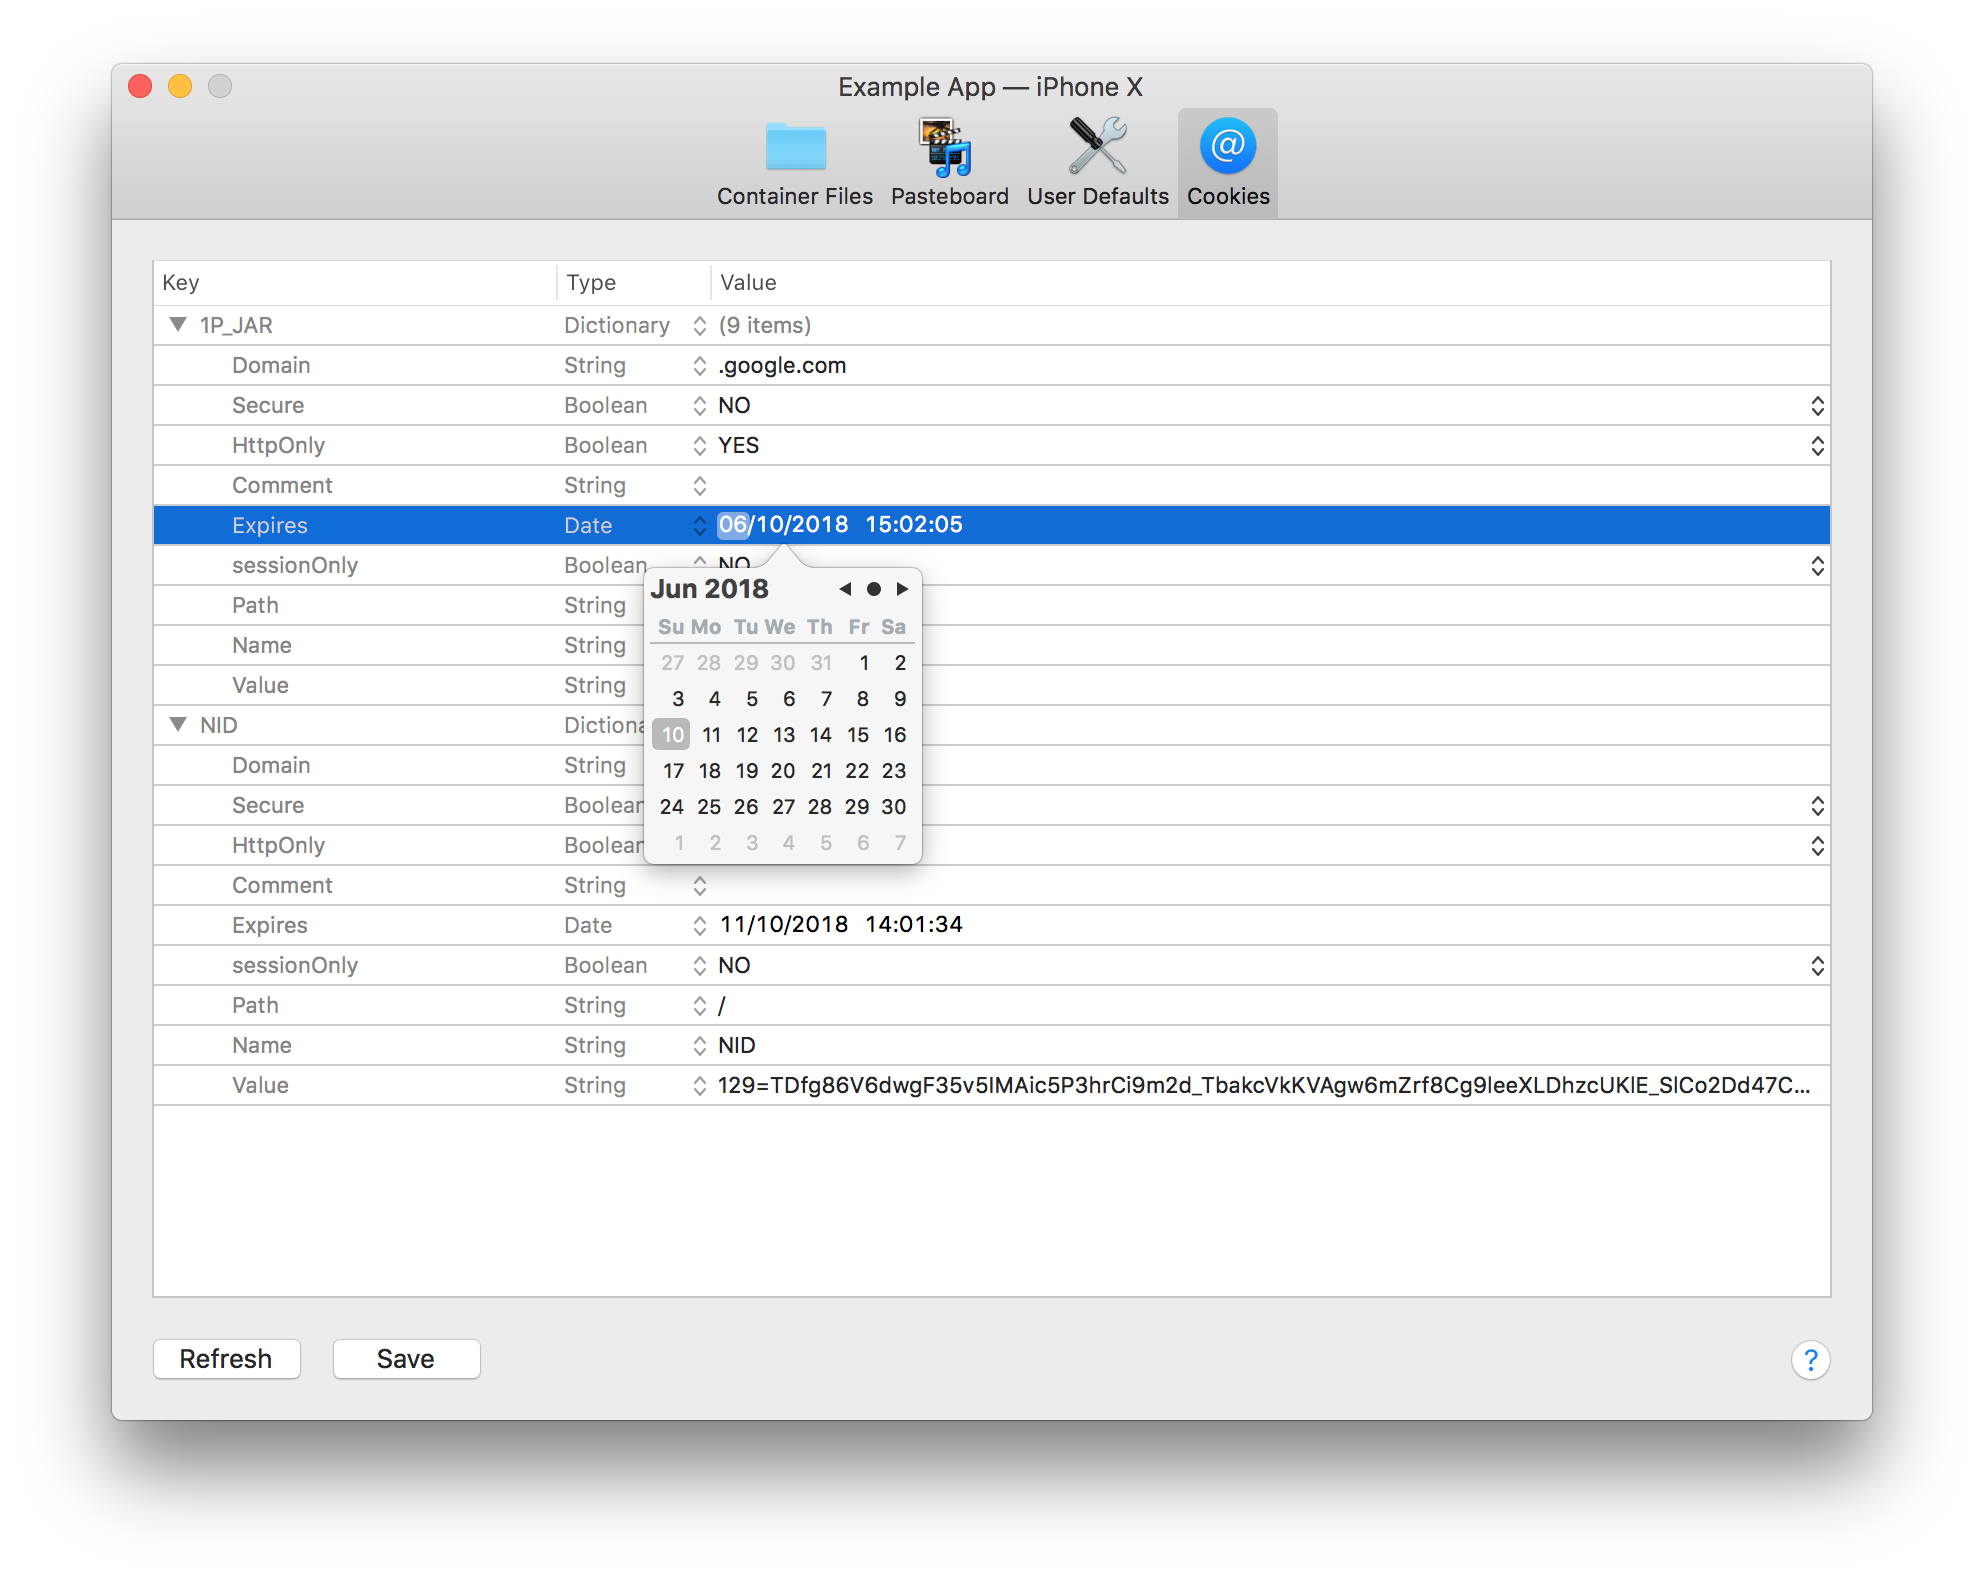
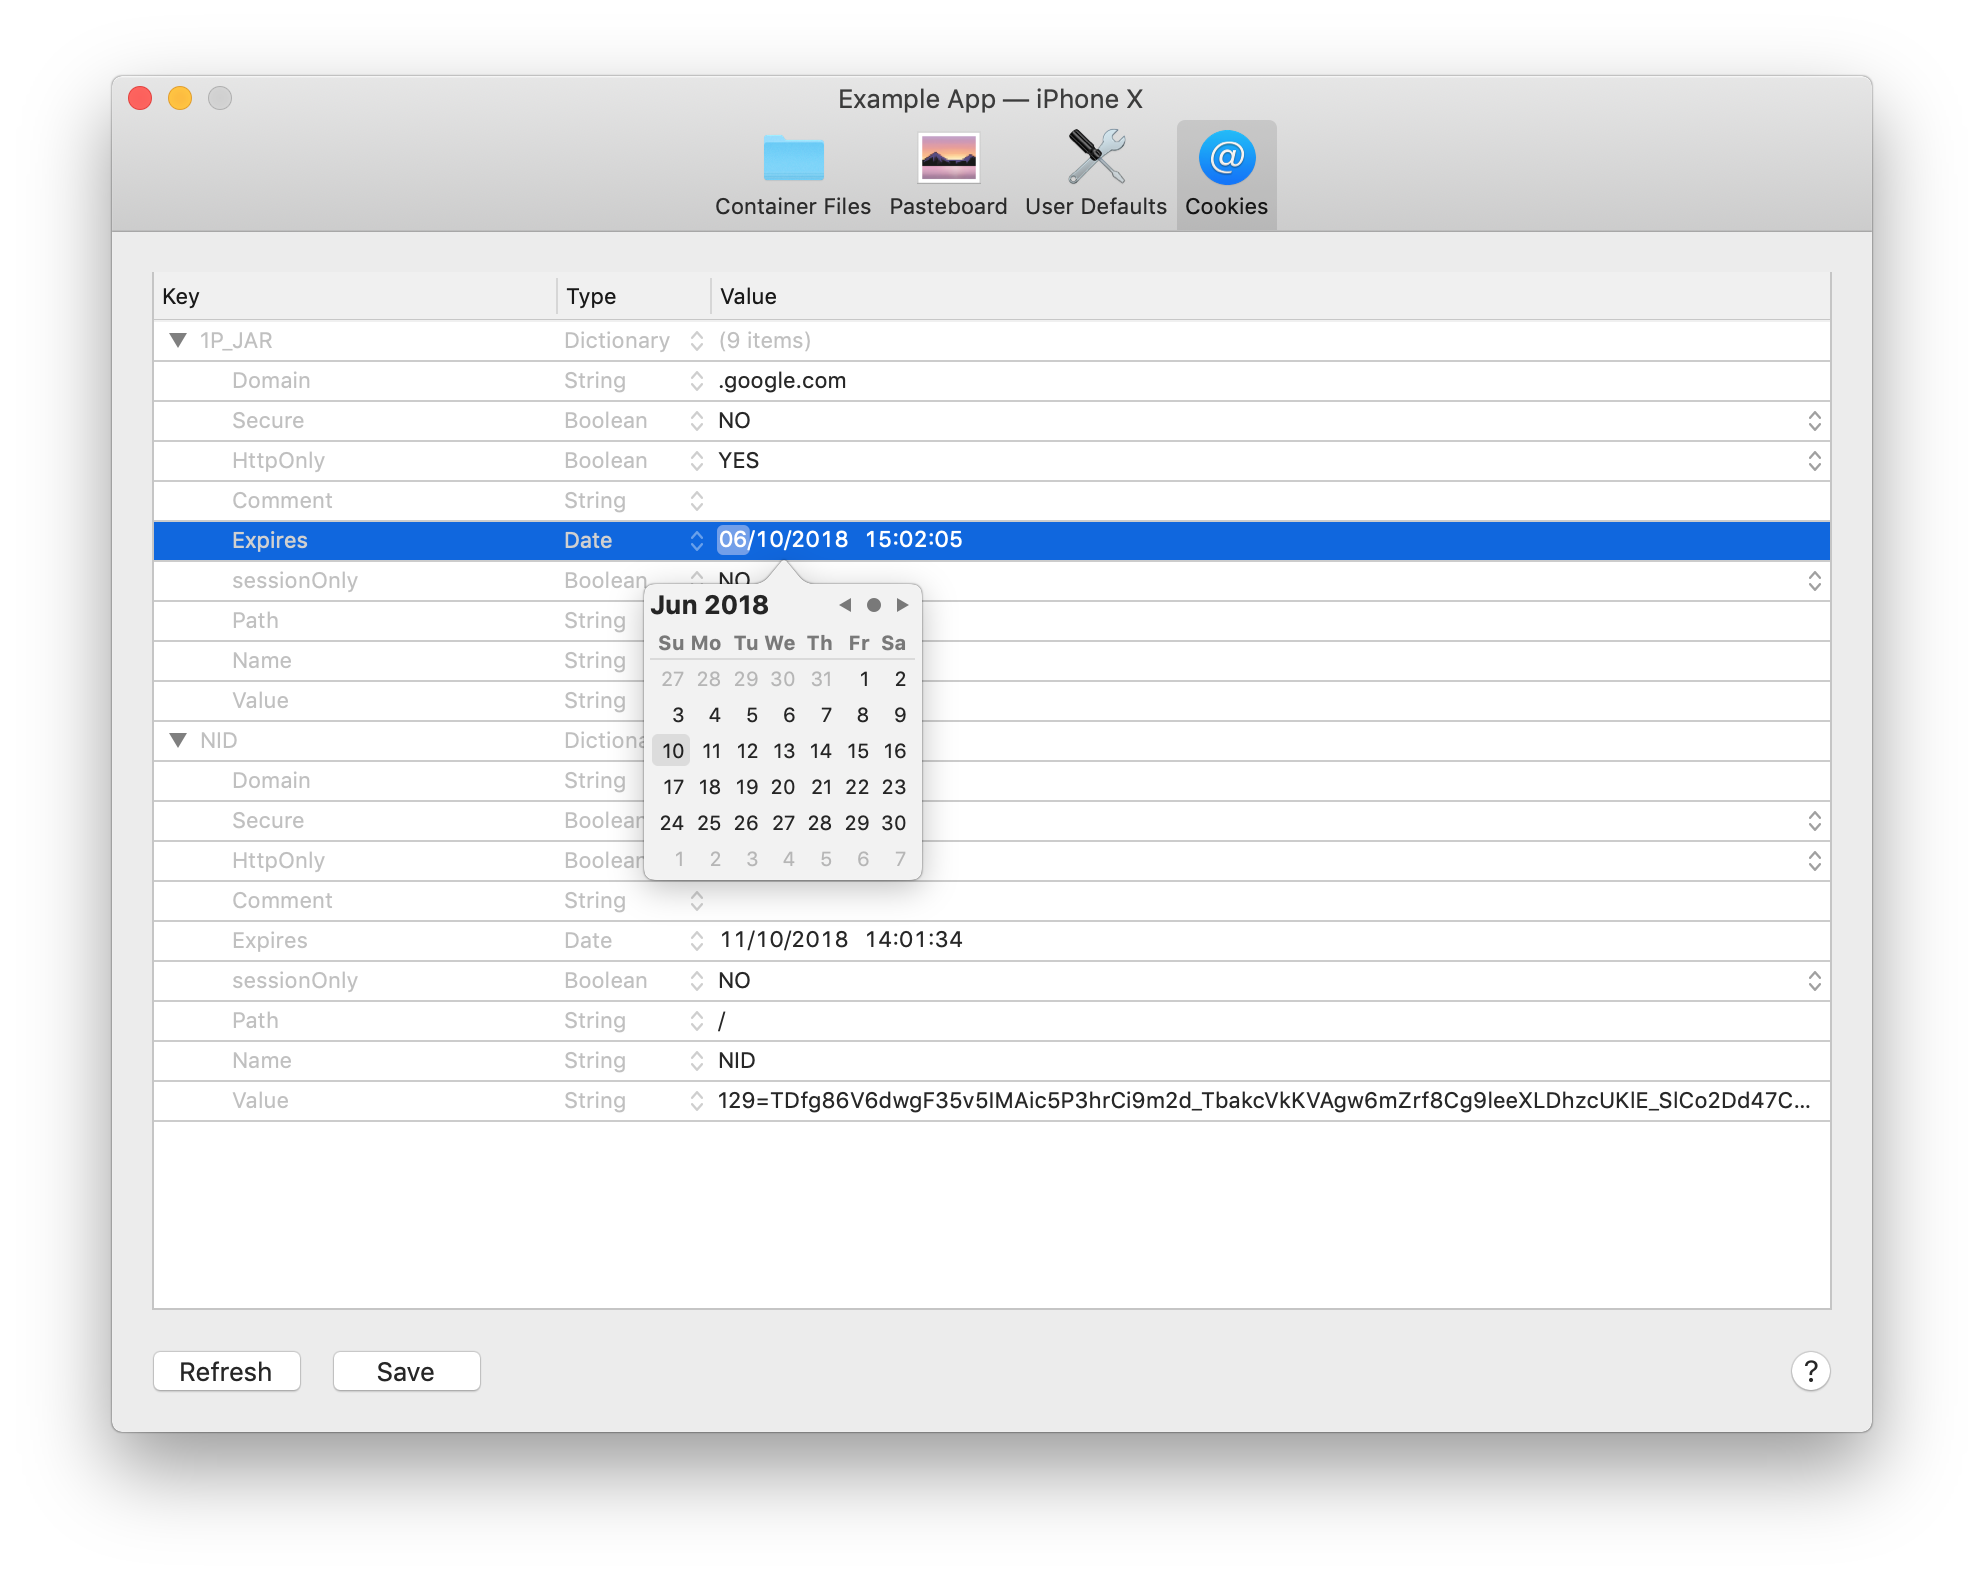
Update screenshots

Changed region(s): [[0.0625, 0.031, 0.9375, 0.7133], [0.0625, 0.8373, 0.9375, 0.9304], [0.0625, 0.031, 0.125, 0.093]]

diff --git a/README.md b/README.md
@@ -1,10 +1,14 @@
 # LNPropertyListEditor
 
-A property list editor for macOS, similar to Xcode's.
+A property list editor for macOS, similar to Xcode's. Has full support for macOS Mojave light and dark appearance:
 
 ![Property list editor](Supplements/Screenshot_1.png "Property list editor")
 
+![Property list editor](Supplements/Screenshot_1_Dark.png "Property list editor")
+
 ![Property list editor](Supplements/Screenshot_2.png "Property list editor")
+
+![Property list editor](Supplements/Screenshot_2_Dark.png "Property list editor")
 
 ## Adding to Your Project
 
